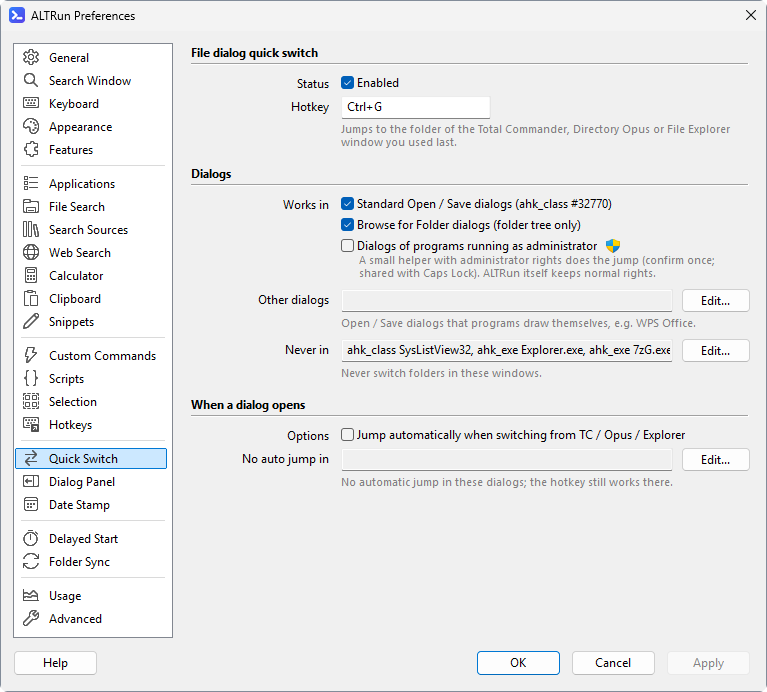
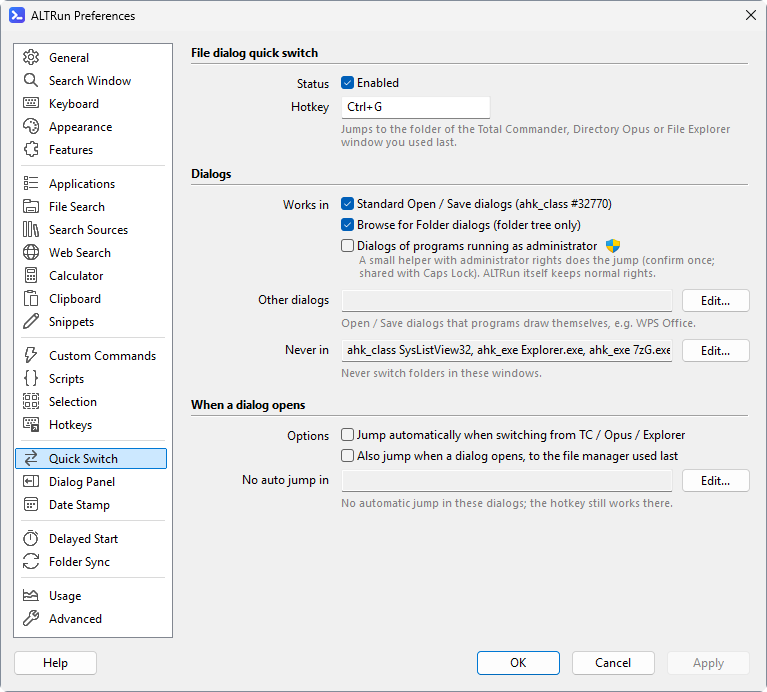
Jump When a Dialog Opens Too, as an Option (Test Build 2026.11.13.17) (#526)
Extensions.QuickSwitch.AutoSwitchOnOpen (default off): a dialog seen in
front for the first time jumps once to the folder of the file manager
used last, like a switch from it. AutoSwitchExclude applies.

The Quick Switch check opens a new dialog after two windows of its own
(so AutoSwitch alone wouldn't jump) and checks that ALTRun logged the
jump as one on opening; a failed round prints all of ALTRun's new log
lines. Screenshots checked.

Refs #521

Changed region(s): [[0.2999, 0.6373, 0.9596, 0.7587]]

diff --git a/docs/wiki/Development-zh.md b/docs/wiki/Development-zh.md
@@ -257,7 +257,7 @@ GitHub → Actions → **Everything** 在 Windows 上用真实的 Everything 检
 AutoHotkey 每次在表达式里读取对象属性里的字符串都会复制一份, `obj.prop .= x` 也会重新生成整个字符串。字符串很长时 (文件索引把所有文件名放在一个字符串里), 线性的工作会变成平方级: 长字符串在局部变量或数组里拼接, 需要一小段一小段读取的文字放在 `Buffer` 里 (按偏移用 `StrGet` 读)。
 
 ### Quick Switch
-GitHub → Actions → **Quick Switch** 用 `Tests\Integration\QuickSwitchCheck.ahk` 在真实的 Windows 桌面上检查自动跳转 (`Extensions.QuickSwitch.AutoSwitch`)。它启动一份打开了自动跳转的 ALTRun, 用资源管理器打开一个文件夹、再打开一个 "打开" 对话框, 然后用三种方式从资源管理器切到对话框: 直接激活 (`SetForegroundWindow`)、模拟 Alt+Tab、点对话框的标题栏。每种方式试 5 次, 每次对话框都要在 5 秒内跳到资源管理器的文件夹; 失败的那一轮会打印 ALTRun 日志里 Quick Switch 的几行。然后打开文件夹面板的 ☆ 菜单 (点星号、在搜索框里按 Alt+↓), 按 Esc 关掉: 对话框要在 2 秒内回到前台; 失败时打印 Esc 之后到过前台的每个窗口。在有标签页的资源管理器上 (Windows 11 22H2 起) 还会像用户那样按 Ctrl+T 打开并显示第二个标签页 (另一个文件夹): 切到对话框和按跳转热键 (Ctrl+G) 都要跳到这个标签页的文件夹, 不是第一个标签页的。修改 Quick Switch (`Src\Extensions\QuickSwitch*.ahk`、`FileDialogs.ahk`、`FileManagers.ahk`、`Lib\ExplorerTabs.ahk`) 或这个检查的 PR 会运行它, main 上也会, 每周一也运行一次 (运行环境的新镜像可能改变窗口到前台的方式; **Explorer tabs** 也是每周一运行); 想找偶尔出现的失败, 可以手动运行并加大次数。脚本也能在自己电脑上运行 (会占用键盘和屏幕一分钟左右): `QuickSwitchCheck.ahk <仓库的一份副本> [次数]`。
+GitHub → Actions → **Quick Switch** 用 `Tests\Integration\QuickSwitchCheck.ahk` 在真实的 Windows 桌面上检查自动跳转 (`Extensions.QuickSwitch.AutoSwitch`)。它启动一份打开了自动跳转的 ALTRun, 用资源管理器打开一个文件夹、再打开一个 "打开" 对话框, 然后用三种方式从资源管理器切到对话框: 直接激活 (`SetForegroundWindow`)、模拟 Alt+Tab、点对话框的标题栏。每种方式试 5 次, 每次对话框都要在 5 秒内跳到资源管理器的文件夹; 失败的那一轮会打印 ALTRun 日志里 Quick Switch 的几行。然后打开文件夹面板的 ☆ 菜单 (点星号、在搜索框里按 Alt+↓), 按 Esc 关掉: 对话框要在 2 秒内回到前台; 失败时打印 Esc 之后到过前台的每个窗口。在有标签页的资源管理器上 (Windows 11 22H2 起) 还会像用户那样按 Ctrl+T 打开并显示第二个标签页 (另一个文件夹): 切到对话框和按跳转热键 (Ctrl+G) 都要跳到这个标签页的文件夹, 不是第一个标签页的。打开 `AutoSwitchOnOpen` 后, 前台是检查自己的窗口 (不是文件管理器)、资源管理器在后面时新打开的打开对话框, 要在打开时就跳到资源管理器的文件夹。修改 Quick Switch (`Src\Extensions\QuickSwitch*.ahk`、`FileDialogs.ahk`、`FileManagers.ahk`、`Lib\ExplorerTabs.ahk`) 或这个检查的 PR 会运行它, main 上也会, 每周一也运行一次 (运行环境的新镜像可能改变窗口到前台的方式; **Explorer tabs** 也是每周一运行); 想找偶尔出现的失败, 可以手动运行并加大次数。脚本也能在自己电脑上运行 (会占用键盘和屏幕一分钟左右): `QuickSwitchCheck.ahk <仓库的一份副本> [次数]`。
 
 
 ### 热键

diff --git a/docs/wiki/Development.md b/docs/wiki/Development.md
@@ -258,7 +258,7 @@ GitHub → Actions → **Everything** checks ALTRun's Everything IPC (`Lib\Every
 AutoHotkey copies a string held in an object property every time an expression reads it, and `obj.prop .= x` builds a whole new string. With long strings (the file index keeps all names in one) that turns linear work into quadratic: build long strings in a local variable or an array, and keep text that is read in small pieces in a `Buffer` (`StrGet` at an offset).
 
 ### Quick Switch
-GitHub → Actions → **Quick Switch** checks automatic switching (`Extensions.QuickSwitch.AutoSwitch`) on a real Windows desktop with `Tests\Integration\QuickSwitchCheck.ahk`. It starts a copy of ALTRun with AutoSwitch on, opens Explorer at a folder and an Open dialog at another, then switches from Explorer to the dialog in three ways: activating it (`SetForegroundWindow`), a simulated Alt+Tab and a click on its title bar. Each way is tried 5 times, and each time the dialog must show Explorer's folder within 5 s; ALTRun's Quick Switch log lines are printed for a round that fails. Then it opens the folder panel's ☆ menu (a click on the star, Alt+↓ in the search box) and closes it with Esc: the dialog must be in front again within 2 s; a failure prints every window that was in front after Esc. With Explorer tabs (Windows 11 22H2 and later) a second tab at another folder is also opened (Ctrl+T, as a user does) and shown: switching to the dialog and the jump hotkey (Ctrl+G) must both go to that tab's folder, not to the first tab's. It runs on pull requests that change Quick Switch (`Src\Extensions\QuickSwitch*.ahk`, `FileDialogs.ahk`, `FileManagers.ahk`, `Lib\ExplorerTabs.ahk`) or the check, on main, and every Monday (a new runner image can change how windows come to the front; **Explorer tabs** runs every Monday too); run it by hand with more rounds to look for occasional failures. The script also works on your own PC (it takes over the keyboard and the screen for about a minute): `QuickSwitchCheck.ahk <copy of the repository> [rounds]`.
+GitHub → Actions → **Quick Switch** checks automatic switching (`Extensions.QuickSwitch.AutoSwitch`) on a real Windows desktop with `Tests\Integration\QuickSwitchCheck.ahk`. It starts a copy of ALTRun with AutoSwitch on, opens Explorer at a folder and an Open dialog at another, then switches from Explorer to the dialog in three ways: activating it (`SetForegroundWindow`), a simulated Alt+Tab and a click on its title bar. Each way is tried 5 times, and each time the dialog must show Explorer's folder within 5 s; ALTRun's Quick Switch log lines are printed for a round that fails. Then it opens the folder panel's ☆ menu (a click on the star, Alt+↓ in the search box) and closes it with Esc: the dialog must be in front again within 2 s; a failure prints every window that was in front after Esc. With Explorer tabs (Windows 11 22H2 and later) a second tab at another folder is also opened (Ctrl+T, as a user does) and shown: switching to the dialog and the jump hotkey (Ctrl+G) must both go to that tab's folder, not to the first tab's. With `AutoSwitchOnOpen` on, a new Open dialog that opens while a window of the check (not a file manager) is in front and Explorer is behind it must jump to Explorer's folder as it opens. It runs on pull requests that change Quick Switch (`Src\Extensions\QuickSwitch*.ahk`, `FileDialogs.ahk`, `FileManagers.ahk`, `Lib\ExplorerTabs.ahk`) or the check, on main, and every Monday (a new runner image can change how windows come to the front; **Explorer tabs** runs every Monday too); run it by hand with more rounds to look for occasional failures. The script also works on your own PC (it takes over the keyboard and the screen for about a minute): `QuickSwitchCheck.ahk <copy of the repository> [rounds]`.
 
 
 ### Hotkeys

diff --git a/docs/wiki/Quick-Switch.md b/docs/wiki/Quick-Switch.md
@@ -19,6 +19,8 @@ The existing file name is preserved when jumping. For example, a name suggested 
 
 Enable **Auto switch** in Preferences → Quick Switch to jump automatically when you switch from Total Commander, Directory Opus or File Explorer to an Open / Save dialog: the dialog goes to the folder of the window you came from. It works however you switch (taskbar, Alt+Tab, a click on the dialog's title bar). In standard Open / Save dialogs the folder is put into the file name box and the dialog is told to go there with window messages, without simulated keys; a name Save As suggested stays in the box.
 
+Tick **Also jump when a dialog opens, to the file manager used last** (`AutoSwitchOnOpen`, off by default) and a dialog that has just opened jumps once too, to the folder of the Total Commander / Directory Opus / Explorer window used last (the frontmost one), for example after browsing a folder in Explorer and pressing Ctrl+O in Word. It overrides the folder the program remembers (such as where Save As suggests saving), so it is off by default; **No auto jump in** applies to it too.
+
 **Works in**: tick **Standard Open / Save dialogs** (`ahk_class #32770`, on by default; only dialogs with an Explorer file list count, so program windows that are dialogs themselves, such as System Information (msinfo32), are left alone); **Browse for Folder dialogs** (on by default) covers the older folder picker that only shows a folder tree (see below); dialogs that programs draw themselves go in **Other dialogs** (**Edit...**, one per line), for example WPS's `ahk_class Qt5QWindowIcon` (ALTRun types the folder into the dialog's file name box and presses Enter, which works in most Qt, GTK and Java file dialogs). Windows in **Never in** never switch (these lists are edited with **Edit...** too, one window per line); **No auto jump in** disables only automatic switching, and the hotkeys still work there.
 
 ## Browse for Folder dialogs
@@ -49,6 +51,7 @@ Preferences → Quick Switch controls the hotkeys, eligible windows and automati
 | `Enabled` | `1` = enable Quick Switch |
 | `Hotkey` | The jump hotkey, default `Ctrl+G`: the folder of the Total Commander / Directory Opus / File Explorer window used last (`TotalCmdHotkey` before settings version 6) |
 | `AutoSwitch` | Jump automatically when switching from Total Commander, Directory Opus or File Explorer to a dialog, default `0` (off) |
+| `AutoSwitchOnOpen` | A dialog that has just opened jumps once too, to the folder of the file manager used last, default `0` (off) |
 | `StandardDialogs` | `1` = in the standard Open / Save dialogs (`ahk_class #32770`) |
 | `DialogWindows` | Other dialogs where Quick Switch works (dialogs programs draw themselves), a list of window conditions, default `[]` |
 | `BrowseDialogs` | `1` = also in "Browse for Folder" dialogs (folder tree only) |

diff --git a/CHANGELOG.md b/CHANGELOG.md
@@ -5,6 +5,15 @@
 
 ## [未发布]
 
+## [2026.11.13.17]
+
+测试版。
+
+Test build.
+
+### 新增
+- 对话框跳转: 新选项 "对话框打开时也跳到最近用过的文件管理器的文件夹" (偏好设置 → 对话框跳转, 默认关)。勾上后, 打开 / 另存为对话框刚打开时也会跳一次, 跳到最近用过的 Total Commander / Directory Opus / 资源管理器窗口的文件夹, 例如在资源管理器里看完文件夹再到 Word 里按 Ctrl+O; 原来的自动跳转只在从文件管理器切换到对话框时才跳。会盖掉程序自己记住的文件夹, 所以默认关; "不自动跳转的对话框" 也适用 (#521)
+
 ## [2026.11.13.16]
 
 测试版。
@@ -1561,7 +1570,8 @@ Smoother typing, easier to get started, and a few useful new features.
 ## 更早的版本
 见 [GitHub Releases](https://github.com/zhugecaomao/ALTRun/releases)。
 
-[未发布]: https://github.com/zhugecaomao/ALTRun/compare/2026.11.13.16...HEAD
+[未发布]: https://github.com/zhugecaomao/ALTRun/compare/2026.11.13.17...HEAD
+[2026.11.13.17]: https://github.com/zhugecaomao/ALTRun/compare/2026.11.13.16...2026.11.13.17
 [2026.11.13.16]: https://github.com/zhugecaomao/ALTRun/compare/2026.11.13.15...2026.11.13.16
 [2026.11.13.15]: https://github.com/zhugecaomao/ALTRun/compare/2026.11.13.14...2026.11.13.15
 [2026.11.13.14]: https://github.com/zhugecaomao/ALTRun/compare/2026.11.13.13...2026.11.13.14
